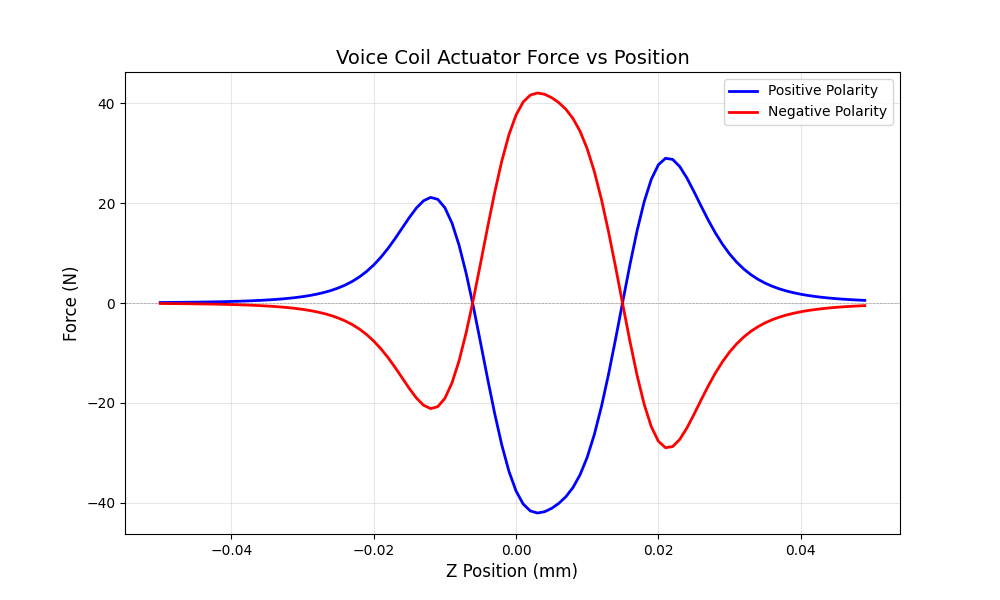
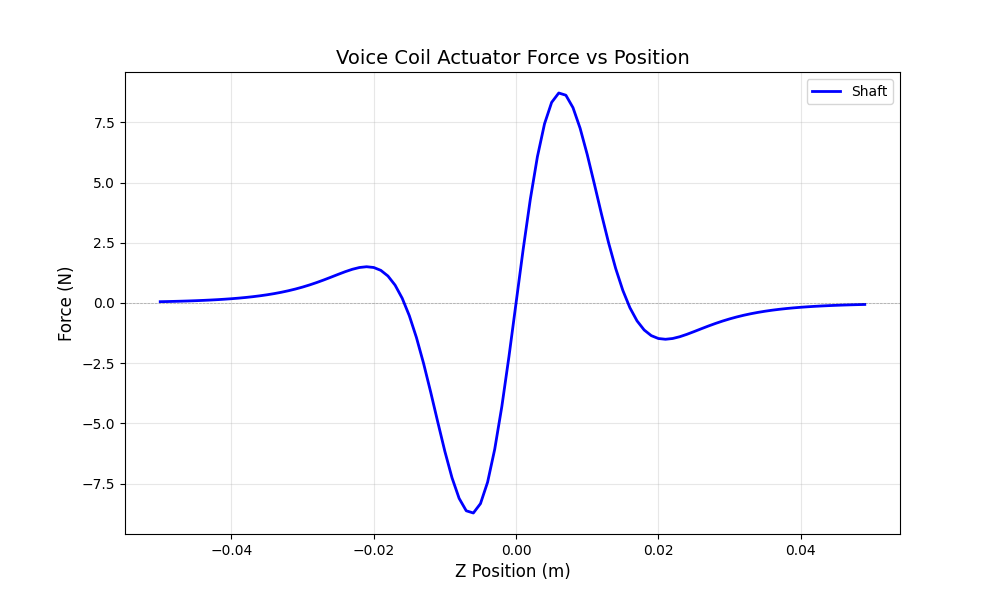
Few improvements and repository license

diff --git a/00_simulation/model/solver.py b/00_simulation/model/solver.py
@@ -37,7 +37,7 @@ class Solver:
         pos = self._compute_energy_state(z_pos + self.int_step_size, self.int_step_size)
         neg = self._compute_energy_state(z_pos - self.int_step_size, self.int_step_size)
 
-        return - 4 * (pos - neg) / (2 * self.int_step_size)
+        return - (pos - neg) / (2 * self.int_step_size)
 
     def _compute_energy_state(
         self, translate: f, dz: f, epsilon: float = 1e-8, window: int = 5
@@ -58,25 +58,12 @@ class Solver:
         below_epsilon = 0
 
         while True:
-            # Computes the coil field strength at z
-            h_coil = equations.compute_coil_z_field_strength(
-                z, translate,
-                self.current,
-                self.stage_turns,
-                self.coil_axial_length,
-                self.coil_mean_radius
-            )
-
-            # Computes the magnet field strength at z
-            h_magnet = equations.compute_pole_z_field_strength(
-                z,
-                0,
-                self.pole_axial_length,
-                self.coercivity
-            )
+            # Computes field strength of pole & coil at z
+            h_pole = self._compute_dipole_field_strength(z, translate)
+            h_coil = self._compute_coil_field_strength(z)
 
             # Computes the co-energy from that interaction
-            interaction = h_coil * h_magnet
+            interaction = h_coil * h_pole
             interactions.append(interaction)
 
             if abs(interaction) <= epsilon:
@@ -93,16 +80,49 @@ class Solver:
 
         return interactions
 
+    def _compute_dipole_field_strength(self, z: f, translate: f) -> f:
+        """ Computes the magnetic field strength from the dipole at position z. """
+        return equations.compute_dipole_z_field_strength(
+            z,
+            translate,
+            self.magnet_axial_length,
+            self.coercivity
+        )
+
+    def _compute_coil_field_strength(self, z: f) -> f:
+        """ Computes the magnetic field strength from the coil at position z. """
+        field_strength = 0.0
+        half_length = self.coil_axial_length / 2
+
+        # Calculates the positive dipole
+        field_strength += equations.compute_coil_z_field_strength(
+            z + half_length,
+            self.current,
+            self.stage_turns / 2,
+            half_length,
+            self.coil_mean_radius
+        )
+
+        # Calculates the negative dipole
+        field_strength += equations.compute_coil_z_field_strength(
+            z - half_length,
+            - self.current,
+            self.stage_turns / 2,
+            half_length,
+            self.coil_mean_radius
+        )
+        return field_strength
+
     def _compute_derived_values(self) -> None:
         """ Computes derived values based on parameters """
-        self.coil_inner_radius = self.pole_radial_thickness + self.radial_clearance
+        self.coil_inner_radius = self.magnet_radial_thickness + self.radial_clearance
         self.coil_mean_radius = self.coil_inner_radius + self.coil_radial_thickness / 2
         self.effective_area = pi * self.coil_mean_radius ** 2
 
         # Computes the number of turns and inductance
         self.stage_turns = equations.compute_turns(
-            self.coil_axial_length, 
-            self.coil_radial_thickness, 
+            self.coil_axial_length,
+            self.coil_radial_thickness,
             self.wire_diameter,
             self.fill_factor
         )
@@ -123,12 +143,8 @@ class Solver:
             resistivity
         )
 
-        # Computes the equivalent resistance and inductance
-        self.total_resistance = self.stage_resistance / 4
-        self.total_inductance = self.stage_inductance / 4
-
         # Computes the total current carrying capacity
-        self.current = self.line_voltage / self.total_resistance
+        self.current = self.line_voltage / self.stage_resistance
 
     def _extract_validate(self, parameters: DynamicLoader) -> None:
         """ Extracts qualities from attribute tree and validates units """
@@ -137,14 +153,14 @@ class Solver:
         self.line_voltage = validate(parameters.numerics.line_voltage, voltage)
 
         # Coil
-        self.radial_clearance = validate(parameters.coil.pole_radial_clearance, length)
+        self.radial_clearance = validate(parameters.coil.magnet_radial_clearance, length)
         self.coil_radial_thickness = validate(parameters.coil.radial_thickness, length)
         self.coil_axial_length = validate(parameters.coil.axial_length, length)
         self.wire_diameter = validate(parameters.coil.wire_diameter, length)
         self.conductivity = validate(parameters.coil.conductivity, conductivity)
         self.fill_factor = validate(parameters.coil.fill_factor, nullset)
 
-        # Pole
-        self.coercivity = validate(parameters.pole.coercivity, coercivity)
-        self.pole_radial_thickness = validate(parameters.pole.radial_thickness, length)
-        self.pole_axial_length = validate(parameters.pole.axial_length, length)
+        # Magnet
+        self.coercivity = validate(parameters.magnet.coercivity, coercivity)
+        self.magnet_radial_thickness = validate(parameters.magnet.radial_thickness, length)
+        self.magnet_axial_length = validate(parameters.magnet.axial_length, length)

diff --git a/00_simulation/model/equations.py b/00_simulation/model/equations.py
@@ -11,35 +11,27 @@ from math import pi, cosh, floor
 
 
 def compute_coil_z_field_strength(
-    z_pos: f, z_start: f, current: f, turns: f, coil_len: f, coil_rad: f
+    z_pos: f, current: f, turns: f, length: f, radius: f
 ) -> f:
     """
     Computes the field strength at a position z along the coil using the 
     finite continuous solenoid model in axial-symmetric modelling (Z, R).
-    
-    'z_coil' is in reference to the start of the coil. Hence center is shifted coil_len / 2
     """
-    half_length = coil_len / 2
-    center = - z_start + half_length
+    half_length = length / 2
 
-    # Calculates the axial field components (term 1 & term 2)
-    denom1 = ((z_pos - center + half_length) ** 2 + coil_rad ** 2) ** 0.5
-    term1 = (z_pos - center + half_length) / denom1
+    # Calculates the axial field components via integration
+    term1 = (z_pos + half_length) / (radius ** 2 + (z_pos + half_length) ** 2) ** 0.5
+    term2 = (z_pos - half_length) / (radius ** 2 + (z_pos - half_length) ** 2) ** 0.5
 
-    denom2 = ((z_pos - center - half_length) ** 2 + coil_rad ** 2) ** 0.5
-    term2 = (z_pos - center - half_length) / denom2
-
-    # Calculates maximal field_strength and returns position dependent strength
-    h_term = turns * current / (2 * pi * coil_len)
+    # Calculates maximal field strength and returns position dependent strength
+    h_term = turns * current / (2 * length)
     return h_term * (term1 - term2)
 
 
-def compute_pole_z_field_strength(z_pos: f, z_start, pole_len: f, h_field: f, n: int = 4) -> f:
+def compute_dipole_z_field_strength(z_pos: f, z_start, length: f, h_field: f, n: int = 4) -> f:
     """ 
-    Computes the field strength at a position z along the pole using a sech approximation.
+    Computes the field strength at a position z along the dipole using a sech approximation.
     finite continuous dipole model in axial-symmetric modelling (Z, R).
-    
-    'z_pole' is in reference to the start of the pole. Hence center is shifted pole_len / 2
     """
     def _sech(x):
         """ Hyperbolic Secant Function """
@@ -48,12 +40,11 @@ def compute_pole_z_field_strength(z_pos: f, z_start, pole_len: f, h_field: f, n:
         except OverflowError:
             return 0.0
 
-    half_length = pole_len / 2
-    center = z_start + half_length
+    half_length = length / 2
 
     # Calculates the axial field components (term 1 & term 2)
-    term1 = _sech(n * ((z_pos - center) + half_length) / pole_len) ** 2
-    term2 = _sech(n * ((z_pos - center) - half_length) / pole_len) ** 2
+    term1 = _sech(n * ((z_pos - z_start) + half_length) / length) ** 2
+    term2 = _sech(n * ((z_pos - z_start) - half_length) / length) ** 2
 
     # Calculates the field strength at `z_pos`
     return h_field * (term1 - term2)

diff --git a/00_simulation/main.py b/00_simulation/main.py
@@ -10,7 +10,7 @@ from math import sqrt
 import matplotlib.pyplot as plt
 
 from picounits import Parser
-from picounits import current, inductance, resistance, power
+from picounits import current, inductance, resistance, power, nullset
 from model.solver import Solver
 
 # Loads unit system, material library & parameters
@@ -24,47 +24,38 @@ parameters = Parser.open(parameters_path, ROOT_DIR / "metric.ut")
 solver = Solver(parameters)
 z_sample = parameters.numerics.sampling_size.stripped
 z_pos = - z_sample / 2
-step = parameters.numerics.integration_step_size.stripped
+step = parameters.numerics.displacement_size.stripped
 
 # Prints out derived parameters for the user
-copper_losses = (solver.current / sqrt(2)) ** 2 * solver.total_resistance
+copper_losses = (solver.current / sqrt(2)) ** 2 * solver.stage_resistance
 
 print("-" * 10, " Static Parameters ",  "-" * 10)
-print(f"Ind: {solver.total_inductance * inductance}, Res: {solver.total_resistance * resistance}")
+print(f"Turns: {solver.stage_turns * nullset}")
+print(f"Ind: {solver.stage_inductance * inductance}, Res: {solver.stage_resistance * resistance}")
 print(f"Current: {solver.current * current}, Losses: {copper_losses * power}")
 print("-" * 10, " Dynamic Parameters ",  "-" * 9)
 
 # Lists to store
 z = []
-forces_positive = []
-forces_negative = []
+force = []
 while z_pos < z_sample / 2:
     # Calculate force with positive polarity
     force_pos = solver.compute_force(z_pos, polarity=True)
-    forces_positive.append(force_pos)
-
-    # Calculate force with negative polarity
-    force_neg = solver.compute_force(z_pos, polarity=False)
-    forces_negative.append(force_neg)
+    force.append(force_pos)
 
     # Updates z list and the z_pos
     z.append(z_pos)
     z_pos += step
 
-
 # Create the plot
 plt.figure(figsize=(10, 6))
-
-# Plot both polarities
-plt.plot(z, forces_positive, 'b-', label='Positive Polarity', linewidth=2)
-plt.plot(z, forces_negative, 'r-', label='Negative Polarity', linewidth=2)
-
+plt.plot(z, force, 'b-', linewidth=2, label="Shaft")
 plt.axhline(y=0, color='k', linestyle='--', linewidth=0.5, alpha=0.3)
 
 # Labels and title
-plt.xlabel('Z Position (mm)', fontsize=12)
+plt.xlabel('Z Position (m)', fontsize=12)
 plt.ylabel('Force (N)', fontsize=12)
-plt.title('Voice Coil Actuator Force vs Position', fontsize=14)
+plt.title('Voice Coil Actuator Force vs Shaft Position', fontsize=14)
 plt.grid(True, alpha=0.3)
 plt.legend()
 plt.show()

diff --git a/readme.md b/readme.md
@@ -3,55 +3,65 @@
 ![MIT License](https://img.shields.io/badge/License-MIT-F3F4F4?style=flat-square&logoColor=black)
 ![EM](https://img.shields.io/badge/Physics-Electromagnetics-0DFDF7?style=flat-square&logo=physics&)
 
-> [!WARNING]
-> Do not assume the resulting design variables are suitable for fabrication or real-world use without further analysis.
-
-A `voice-coil` actuator is an electromechanical device that produces linear motion using an inner permanent magnet (pole) on a shaft and an outer coil to produce force via `co-energy` between the field sources.
+A `voice-coil` actuator is an electromechanical device that produces linear motion using an inner permanent magnet (dipole) on a shaft and an outer coil to produce force via `magnetic co-energy interaction` between the field sources.
 
 <div align="center">
   <img src="01_media/reference_design.png" alt="Reference topology" style="max-width:600px;">
-  <p><em>Figure 1: Quarter-sectional view of the voice-coil actuator topology showing the permanent magnet (pole) and coil.</em></p>
+  <p><em>Figure 1: Quarter-sectional view of the voice-coil actuator topology showing the permanent magnet (dipole) and coil arrangement.</em></p>
 </div>
+
+> [!note]
+> Editor Note: The model seems reasonable enough for now. It should be validate it if it's used for actual actuator design. I encourage anyone else to do the same.
 
 ## Mathematical Implementation
 
-The model is constructed using axial-symmetric coordinates due to the axial symmetry of a voice coil. The model also assumes the domain has a relative permeability of $\mu_r = 1$. This assumption allows the model to use a simplified superposition model to calculate the co-energy and then virtual work. The specific model for virtual work is shown here:
+The model is constructed using axisymmetric coordinates due to the axial symmetry of a voice coil. The model also assumes the domain has a relative permeability of $\mu_r = 1$.
+This assumption allows the model to use a simplified superposition model to calculate the co-energy and then virtual work. The specific model for virtual work is shown here:
 
 $$ U = A_{\text{rad}} \cdot \mu_0 \cdot \int_{\Omega} \left( H_{\text{pole}}(z-z_{t}) \cdot H_{\text{coil}}(z) \right) \, dz $$
 
 $$ F = -\frac{dU}{dz} \approx -\frac{U(z+\Delta z) - U(z-\Delta z)}{2\Delta z}$$
 
-The field strength formulas for the pole and coil are:
+The field strength formulas for the magnet (dipole) and coil are:
 
 $$
-h_{\text{pole}}(z, m) = h_{\text{peak}} \left[ \mathrm{sech}\left( \frac{n\left((z-m)+\frac{l}{2}\right)}{l} \right)^2 - \mathrm{sech}\left( \frac{n\left((z-m)-\frac{l}{2}\right)}{l} \right)^2 \right]
+H_{\text{dipole}}(z, m) = h_{\text{peak}} \left[ \mathrm{sech}\left( \frac{n\left((z-m) +\ell_{\text{dipole}}/2 \right)}{\ell_{\text{dipole}}} \right)^2 -\mathrm{sech}\left(\frac{n\left((z-m) -\ell_{\text{dipole}}/2 \right)}{\ell_{\text{dipole}}} \right)^2 \right]
 $$
 
-The coil formula is more complex, as it involves first calculating the number of turns via `fill factor` and then modelling the field based on current and geometry:
+The parameter `n` determines the decay rate of the pole field along the z-axis and `m` is the translation over the z-axis. The coil formula is more complex, as it involves modelling two different poles, each containing half the total number of turns, and then superimposing their fields.
 
 $$
-h_{\text{coil}}(z) = \frac{N I}{2\pi \ell} \left[
-\frac{z + \ell/2}{\sqrt{(z + \ell/2)^2 + R^2}} - 
-\frac{z - \ell/2}{\sqrt{(z - \ell/2)^2 + R^2}}
-\right]
+H_{\text{pole}}(z) = \frac{N I}{4\pi} \int_{-\ell_{\text{pole}}/2}^{\ell_{\text{pole}}/2} 
+\frac{R^2}{\left[(z - z')^2 + R^2\right]^{3/2}} \, dz'
 $$
+
+$$ H_{\text{coil}}(z) = H_{\text{pole}}(z + \ell_{\text{coil}}/2) - H_{\text{pole}}(z - \ell_{\text{coil}}/2) $$
 
 ## Computational Implementation
 
 The model was constructed using `picounits` and implements the virtual work method using the limit of the field in $(-z, z)$:
 
-$$ U = A_{\text{rad}} \cdot \mu_0 \cdot \lim_{N \to \infty} \sum_{i=1}^{N} \left( H_{\text{coil}}(z-z_{t}) \cdot H_{\text{pole}}(z) \right) \, dz $$
+$$ U = A_{\text{rad}} \cdot \mu_0 \cdot \lim_{N \to \infty} \sum_{i=1}^{N} \left( H_{\text{dipole}}(z-z_{t}) \cdot H_{\text{coil}}(z) \right) \, dz $$
 
-$$ \Omega = \{ z \mid |H_{\text{coil}}(z)| > \varepsilon \quad \text{or} \quad |H_{\text{pole}}(z)| > \varepsilon \}$$
+$$ \Omega = \{ z \mid |H_{\text{dipole}}(z)| > \varepsilon \quad \text{or} \quad |H_{\text{coil}}(z)| > \varepsilon \}$$
 
-The $A_{\text{rad}}$ is the effective area the magnetic field strength is passing through. The parameter file for the simulation can be found [here](./00_simulation/parameters.uiv).
+$A_{\text{rad}}$ is the effective area through which the magnetic field passes. The force is then calculated using the finite difference approach:
+
+$$ F = - \frac{dU}{dz} \approx - \frac{U(z+\Delta z) - U(z-\Delta z)}{2\Delta z}$$
+
+## Installation
+
+> [!IMPORTANT]
+> Do not assume the resulting design variables are suitable for fabrication or real-world use without further analysis.
 
 <div align="center">
   <img src="01_media/force_vs_position.png" alt="Force vs position example" style="max-width:600px;">
   <p><em>Figure 2: Simulated force vs. position for a single voice-coil actuator.</em></p>
 </div>
 
-## Installation
+> [!note]
+> Model: [00_simulation/](00_simulation/main.py)  
+> Parameters: [parameters.uiv](00_simulation/parameters.uiv)
 
 To run the analytical model, the following packages are required:
 
